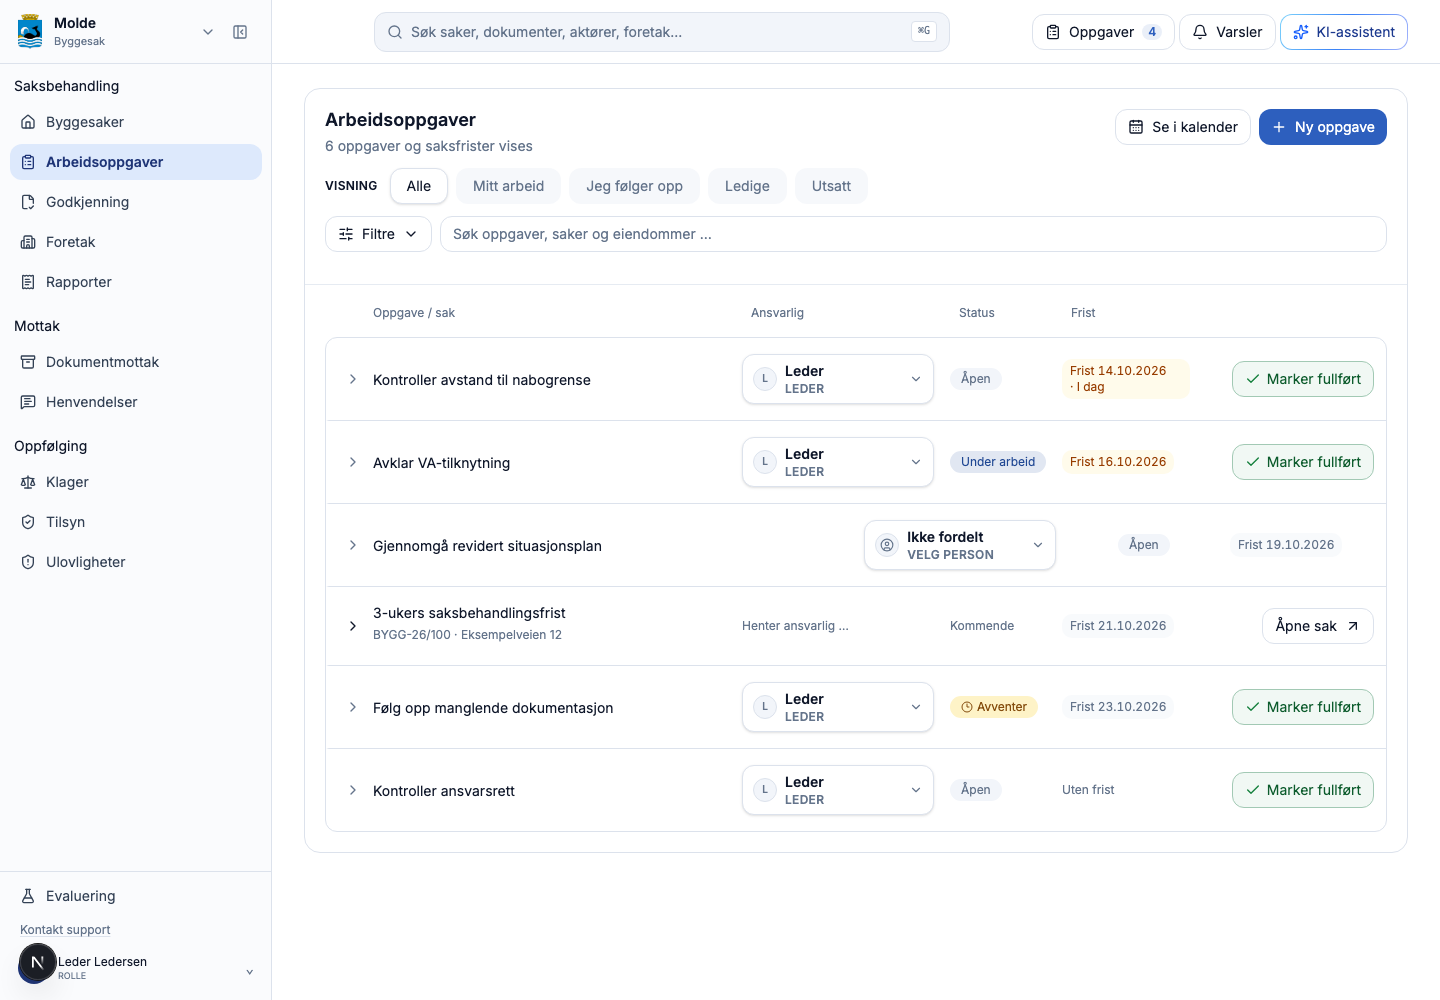
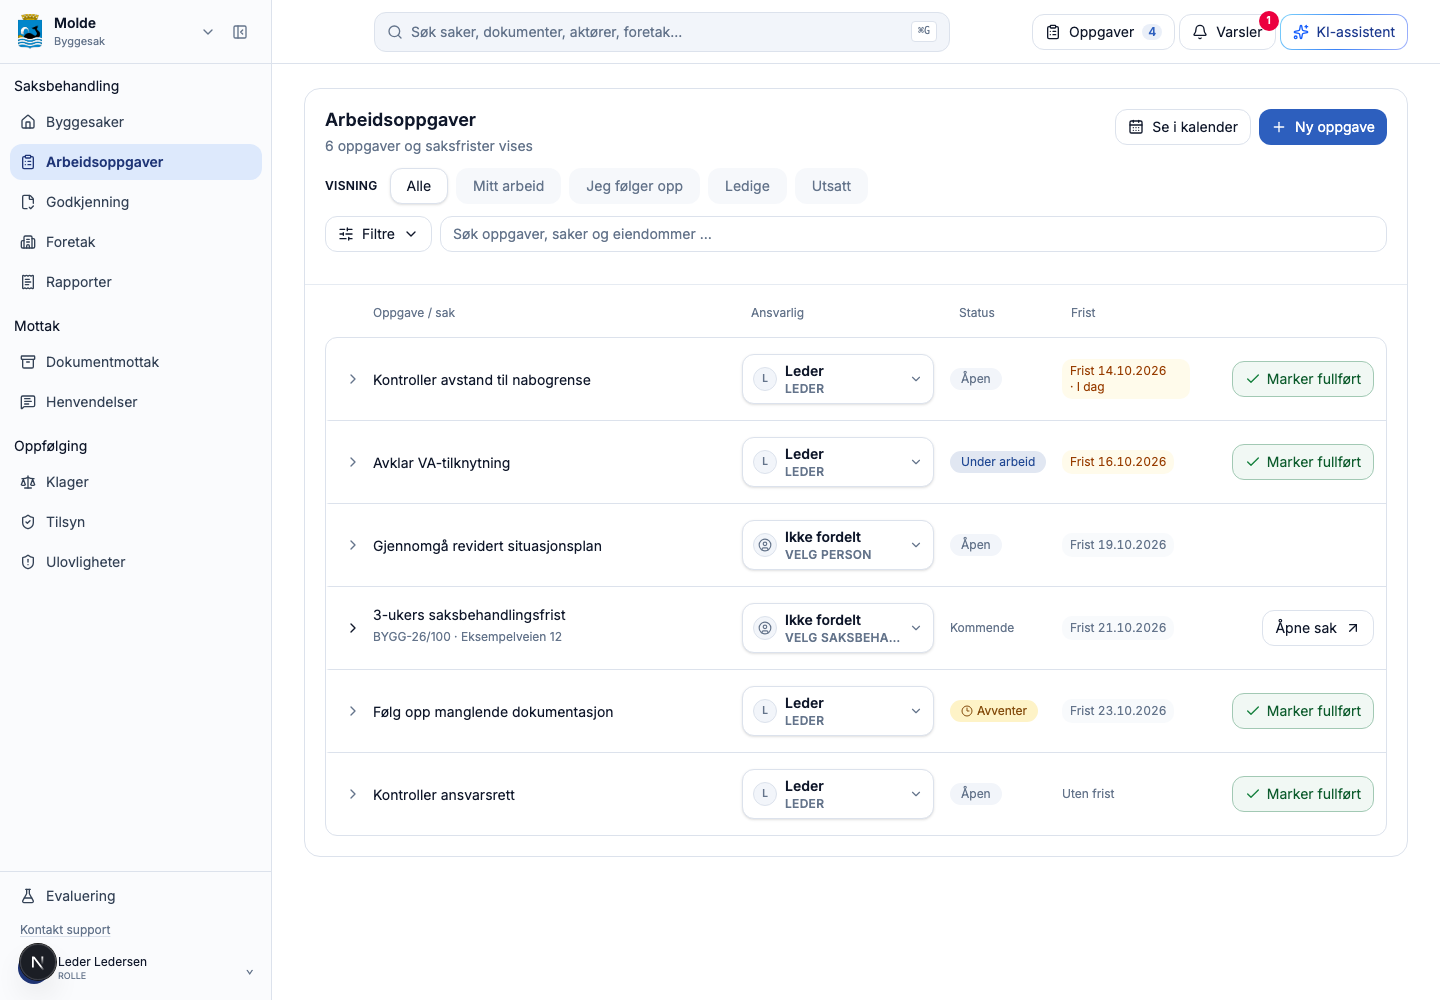
Refresh aligned worklist screenshots

diff --git a/pr-2982/2026-10-14/README.md b/pr-2982/2026-10-14/README.md
@@ -1,6 +1,6 @@
 # Arbeidsoppgaver – visuell gjennomgang
 
-40 skjermbilder av funksjonene i PR #2982, tatt 14. oktober 2026 i den faktiske Kommune-appen med syntetiske testdata. App-kode: `6103c5df655659bb276f4514e6f51dcfac984d57`. Standardbredde 1440 px; responsive eksempler ved 1600, 1100 og 390 px.
+40 skjermbilder av funksjonene i PR #2982, tatt 14. oktober 2026 i den faktiske Kommune-appen med syntetiske testdata. App-kode: `6103c5df655659bb276f4514e6f51dcfac984d57`. Listeoversikt og filterbildet er oppdatert etter kolonnerettingen i `de560397422d5f69ed748fe9601ad9263a6f31ac`. Standardbredde 1440 px; responsive eksempler ved 1600, 1100 og 390 px.
 
 Noen bakgrunnskort viser manglende tilleggsdata fordi testoppsettet ikke simulerer alle eksterne oppslag. Bildene dokumenterer grensesnittet, ikke live-integrasjoner eller produksjonsklarhet. Bildeutsnittet bruker en syntetisk bildestrøm. Ingen ekte saks- eller persondata er publisert.
 
